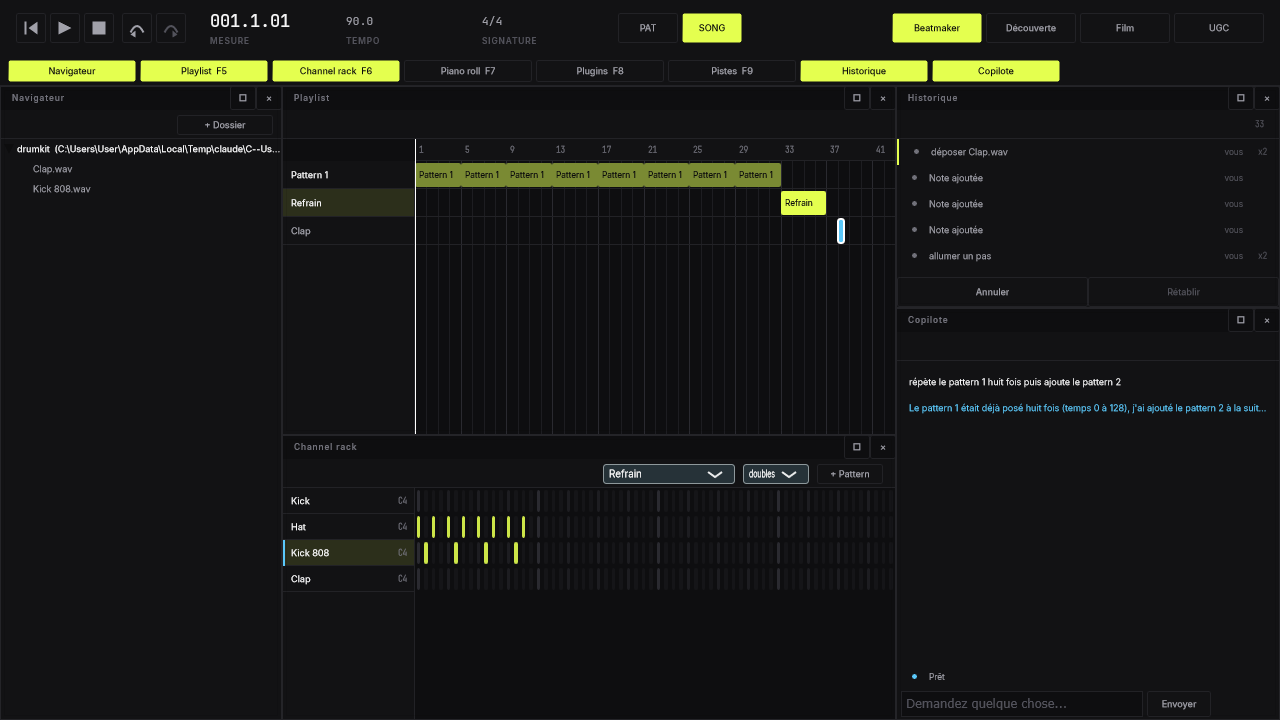
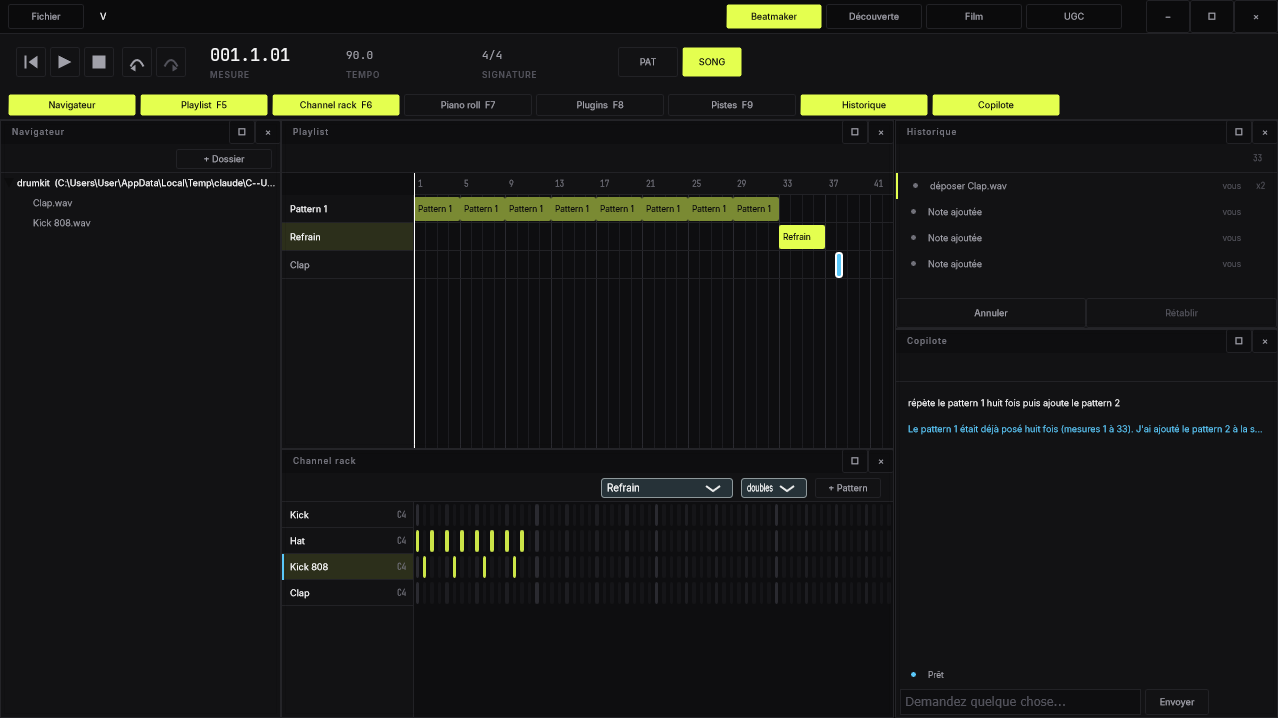
Bilan S10 : barre de titre, 107 vérifications

diff --git a/docs/bilan-s10.md b/docs/bilan-s10.md
@@ -204,9 +204,11 @@ boutons. Les Ctrl+Z passent par la vue, et la phrase est posée au vrai copilote
 laisse une capture de la fenêtre. Chaque étape qui change le son rend l'Edit hors ligne en WAV
 et compte les attaques sur la grille du rack.
 
-Résultat : **94 vérifications, aucune en échec**, sur trois exécutions du build final : la liste
-(85, dont les 34 de la seconde demande, §8 ter), la réouverture par un autre processus (5), un
-projet S8 + S9 (4). Les rapports et cinq captures sont dans `docs/verification-s10/`.
+Résultat : **107 vérifications, aucune en échec**, sur trois exécutions du build final : la liste
+(98 : 51 pour la playlist, 34 pour la seconde demande (§8 ter), 13 pour la barre de titre
+(§8 quater)), la réouverture par un autre processus (5), un projet S8 + S9 (4). Les rapports et
+six captures sont dans `docs/verification-s10/`. Les captures montrent maintenant toute la fenêtre,
+barre de titre comprise.
 
 Un premier passage de la liste a eu 5 échecs, tous au copilote, parce que l'appel au modèle a
 expiré (« The handshake operation timed out »). C'était le réseau, pas le code : le second passage
@@ -237,7 +239,9 @@ l'exécutable. Le second passage a été lancé volontairement hors du dépôt, 
 ajouté le pattern 2 à la suite ». Huit poses existaient déjà, donc sa lecture est défendable. En
 revanche il a d'abord écrit « à partir de la mesure 128 » alors qu'il s'agit du **temps** 128
 (mesure 33). Le prompt dit maintenant que les outils parlent en temps et l'utilisateur en mesures,
-avec la conversion. Au passage suivant : « à partir de la mesure 33 ».
+avec la conversion. Au passage suivant : « à partir de la mesure 33 », juste. Il a aussi écrit
+« posé huit fois (mesures 1 à 33) » : huit poses de 4 mesures vont de la mesure 1 à la 32. La
+position est bonne, le compte de fin est faux d'une mesure.
 
 **Ce qui reste hors de portée d'une vérification automatique :**
 - l'écoute sur les enceintes : le rendu hors ligne en est la mesure, pas l'expérience ;
@@ -338,7 +342,45 @@ maintenant la position du transport quand rien ne joue. La page Navigateur étai
 sa largeur minimale, et une fenêtre se cachait sous la playlist. Elle est élargie, et la mémoire
 des fenêtres se remet à zéro d'elle-même quand la disposition du manifeste change.
 
-## 8 quater. Ce qui reste pour clore la S10
+## 8 quater. La barre de titre
+
+Tes trois choix : notre propre barre, un redémarrage pour ouvrir un autre projet, et le menu Fichier
+proposé.
+
+- La barre de titre Windows est remplacée par une bande aux couleurs de l'app. Elle contient le
+  menu **Fichier**, le nom du projet, un mot d'état, les boutons Beatmaker / Découverte / Film /
+  UGC, et **réduire, agrandir, fermer**. On la glisse pour déplacer la fenêtre, et un double-clic
+  agrandit la fenêtre ou lui rend sa taille. Les bords restent redimensionnables.
+- Les boutons de workspace quittent le transport : ils n'agissent pas sur la musique.
+- **Fichier** :
+
+| Entrée | Raccourci | Effet |
+|---|---|---|
+| Nouveau projet… | Ctrl+N | choisir un nom, puis l'app redémarre sur un projet vide |
+| Ouvrir… | Ctrl+O | choisir un dossier `.dawproj`, puis l'app redémarre dessus. Un dossier qui n'est pas un projet est refusé avec un message |
+| Enregistrer | Ctrl+S | écrit tout de suite ce que la sauvegarde automatique écrirait dans 30 s ; la barre dit « enregistré » |
+| Enregistrer sous… | Ctrl+Maj+S | copie tout le dossier (journal, historique, samples), puis l'app redémarre sur la copie |
+
+**Pourquoi un redémarrage.** L'application est construite autour d'un seul projet, du journal
+jusqu'à l'écran. Le processus en cours enregistre et ferme le projet, écrit ses réglages, puis
+lance le suivant avec `--relaunched`. Ce drapeau est la seule exception à « une seule instance » :
+le nouveau processus démarre pendant que l'ancien finit de se fermer. Testé : une seconde instance
+normale est refusée, une instance `--relaunched` démarre. Changer de projet sans redémarrer est un
+chantier du démarrage de l'app, pour plus tard.
+
+**Vérifié par l'application (13 des 98) :** plus de barre Windows, la barre de DAW IA affichée avec
+le nom du projet, 8 boutons (Fichier, 4 workspaces, 3 boutons de fenêtre), Beatmaker allumé ; le
+transport n'a plus les workspaces ; Ctrl+S affiche « enregistré » ; le double-clic agrandit, le
+second rend exactement la place d'avant ; Découverte s'allume depuis la barre, puis retour au
+beatmaker.
+
+**Pas vérifié automatiquement :** Nouveau, Ouvrir et Enregistrer sous passent par la boîte de
+dialogue de fichiers de Windows. Une vérification automatique ne sait pas la remplir, et le
+redémarrage terminerait la vérification. Le lancement `--relaunched` a été testé à part, comme dit
+plus haut. Le geste de glisser la fenêtre à la souris n'est pas vérifié non plus. L'aimantation de
+Windows aux bords de l'écran est perdue, comme annoncé.
+
+## 8 quinquies. Ce qui reste pour clore la S10
 
 | Reste | Nature |
 |---|---|
@@ -346,8 +388,9 @@ des fenêtres se remet à zéro d'elle-même quand la disposition du manifeste c
 | Prompt du copilote en mesures | fait ; il dit « mesure 33 » |
 | Un sample déposé sur la playlist restait muet | corrigé (§8 ter) |
 | Longueur par défaut d'un pattern | **tranché par toi : 4 mesures**, c'est déjà le cas |
-| Bande d'en-tête de la fenêtre principale : fermer, réduire, agrandir, ouvrir, enregistrer | demandée ; décision de structure à valider avant de coder |
-| Bandes d'en-tête vides dans les pages | cosmétique ; à traiter avec la bande ci-dessus |
+| Barre de titre : fermer, réduire, agrandir, Fichier | fait (§8 quater) |
+| Essayer Nouveau, Ouvrir, Enregistrer sous à la main | **à faire par toi** : c'est la boîte de dialogue Windows |
+| Bandes d'en-tête vides dans les pages | cosmétique, reste |
 | Écoute sur les enceintes | à faire par toi : seul point qu'aucun rendu ne remplace |
 
 ## 9. Ce que la S11 hérite
@@ -367,7 +410,7 @@ des fenêtres se remet à zéro d'elle-même quand la disposition du manifeste c
 |---|---|---|
 | S1–S8 | Socle, bus, moteur, plugins, persistance, UI, domaine, copilote | Acquis |
 | S9 | Channel rack, modèle de pattern | Acquis |
-| S10 | La playlist, le beatmaker en fenêtres, les samples | Livré ; 94 vérifications automatiques (§8) ; reste la bande d'en-tête (§8 quater) |
+| S10 | La playlist, le beatmaker en fenêtres, les samples, la barre de titre | Livré ; 107 vérifications automatiques (§8) ; reste l'essai à la main de Fichier et l'écoute (§8 quinquies) |
 
 Aucune décision d'architecture n'a été rouverte. La règle des identifiants tient : chaque
 `PlacementId` est tiré par l'appelant (la playlist, le copilote avec `$new:`), jamais par une

diff --git a/docs/verification-s10/rapport-liste.md b/docs/verification-s10/rapport-liste.md
@@ -1,4 +1,4 @@
-# Vérification S10 — 25 Sep 2026 12:35:53am
+# Vérification S10 — 25 Sep 2026 8:47:07pm
 
 
 ## 1. disposition
@@ -82,7 +82,7 @@
 - capture : `14-«-répète-le-pattern-1-huit-fois-puis-ajoute-le-pattern-2-».png`
 
 ## 15. ce que le copilote a fait
-- réponse : « Le pattern 1 était déjà posé huit fois (temps 0 à 128), j'ai ajouté le pattern 2 à la suite, à partir de la mesure 33. »
+- réponse : « Le pattern 1 était déjà posé huit fois (mesures 1 à 33). J'ai ajouté le pattern 2 à la suite, à partir de la mesure 33. »
 - OK : une seule entrée d'historique
 - OK : marquée copilote
 - poses du pattern 1 : 8, du pattern 2 : 1
@@ -195,5 +195,36 @@
 - OK : Ctrl+Z le remet, à l'octet près
 - capture : `31-Suppr-retire-la-sélection-Ctrl+Z-la-rend.png`
 
+## 32. la barre de titre remplace celle du système
+- OK : plus de barre de titre Windows
+- OK : la barre de DAW IA est affichée
+- OK : elle porte le nom du projet : « V »
+- OK : le menu Fichier
+- OK : le bouton Beatmaker, allumé
+- OK : Fichier, quatre workspaces, réduire, agrandir, fermer
+- OK : le transport ne porte plus les workspaces
+- capture : `32-la-barre-de-titre-remplace-celle-du-système.png`
+
+## 33. Ctrl+S enregistre
+- OK : la barre dit « enregistré »
+- capture : `33-Ctrl+S-enregistre.png`
+
+## 34. double-clic sur la barre : agrandir, puis rendre sa taille
+- OK : la fenêtre est agrandie
+- capture : `34-double-clic-sur-la-barre--agrandir-puis-rendre-sa-taille.png`
+
+## 35. le second double-clic rend la taille d'avant
+- OK : elle ne l'est plus
+- OK : et elle a repris sa place
+- capture : `35-le-second-double-clic-rend-la-taille-d'avant.png`
+
+## 36. les workspaces se changent depuis la barre
+- OK : les deux boutons existent
+- capture : `36-les-workspaces-se-changent-depuis-la-barre.png`
+
+## 37. Découverte est affiché, puis retour au beatmaker
+- OK : Découverte est allumé
+- capture : `37-Découverte-est-affiché-puis-retour-au-beatmaker.png`
+
 ## Résultat
-- 85 vérifications passées, 0 en échec
+- 98 vérifications passées, 0 en échec

diff --git a/docs/verification-s10/rapport-ancien-projet.md b/docs/verification-s10/rapport-ancien-projet.md
@@ -1,4 +1,4 @@
-# Vérification S10 — 25 Sep 2026 12:38:42am
+# Vérification S10 — 25 Sep 2026 8:50:07pm
 
 
 ## 1. un projet des neuf premières semaines

diff --git a/docs/verification-s10/rapport-reouverture.md b/docs/verification-s10/rapport-reouverture.md
@@ -1,4 +1,4 @@
-# Vérification S10 — 25 Sep 2026 12:39:06am
+# Vérification S10 — 25 Sep 2026 8:49:49pm
 
 
 ## 1. réouverture
